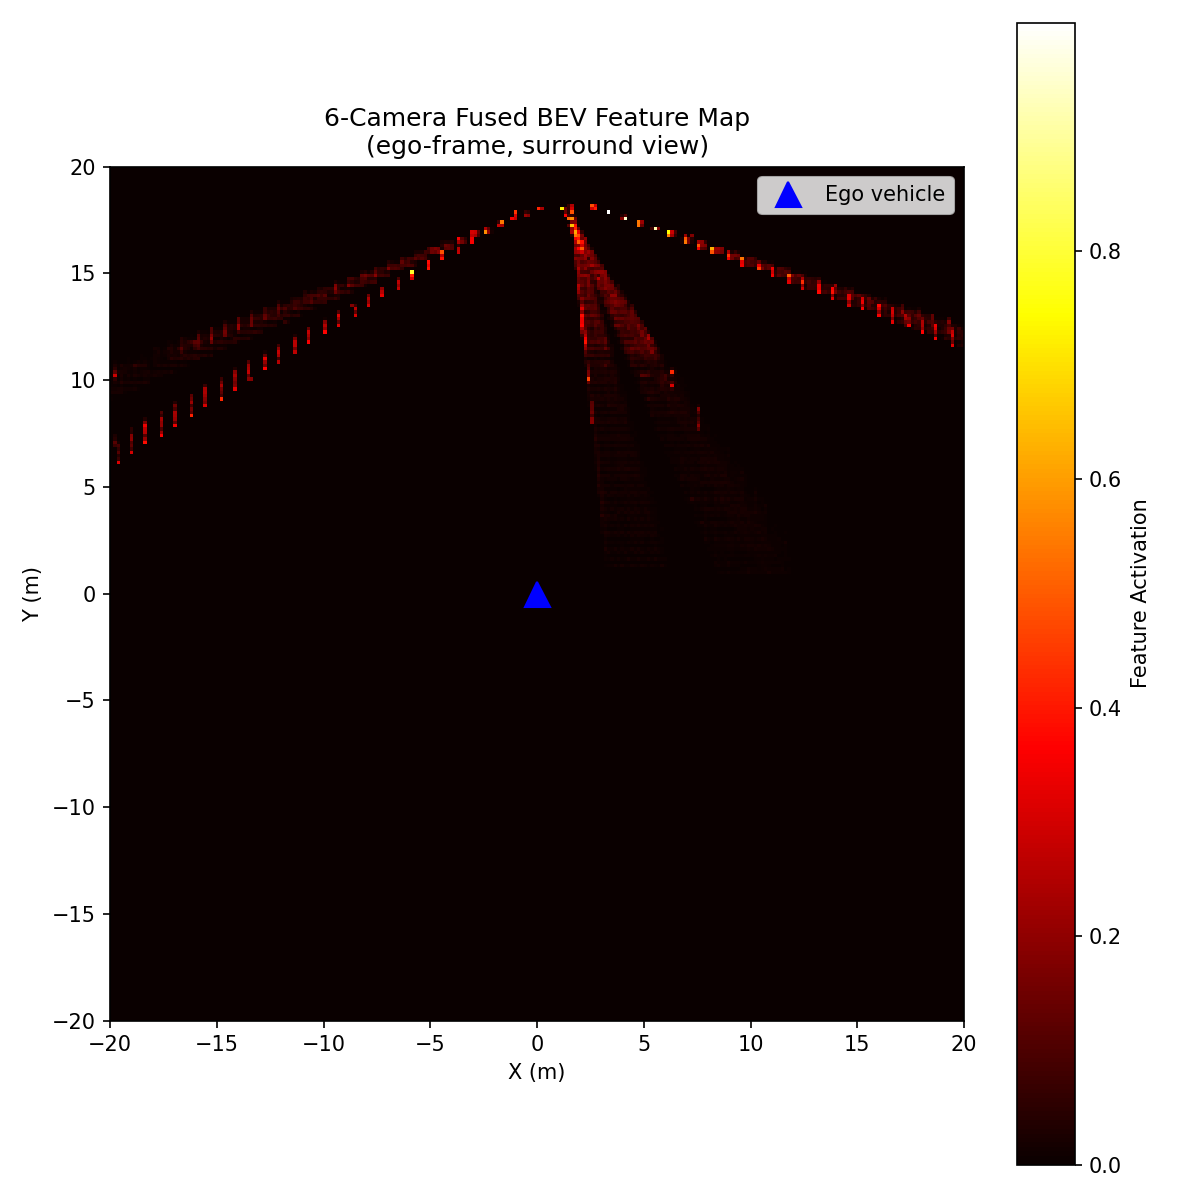
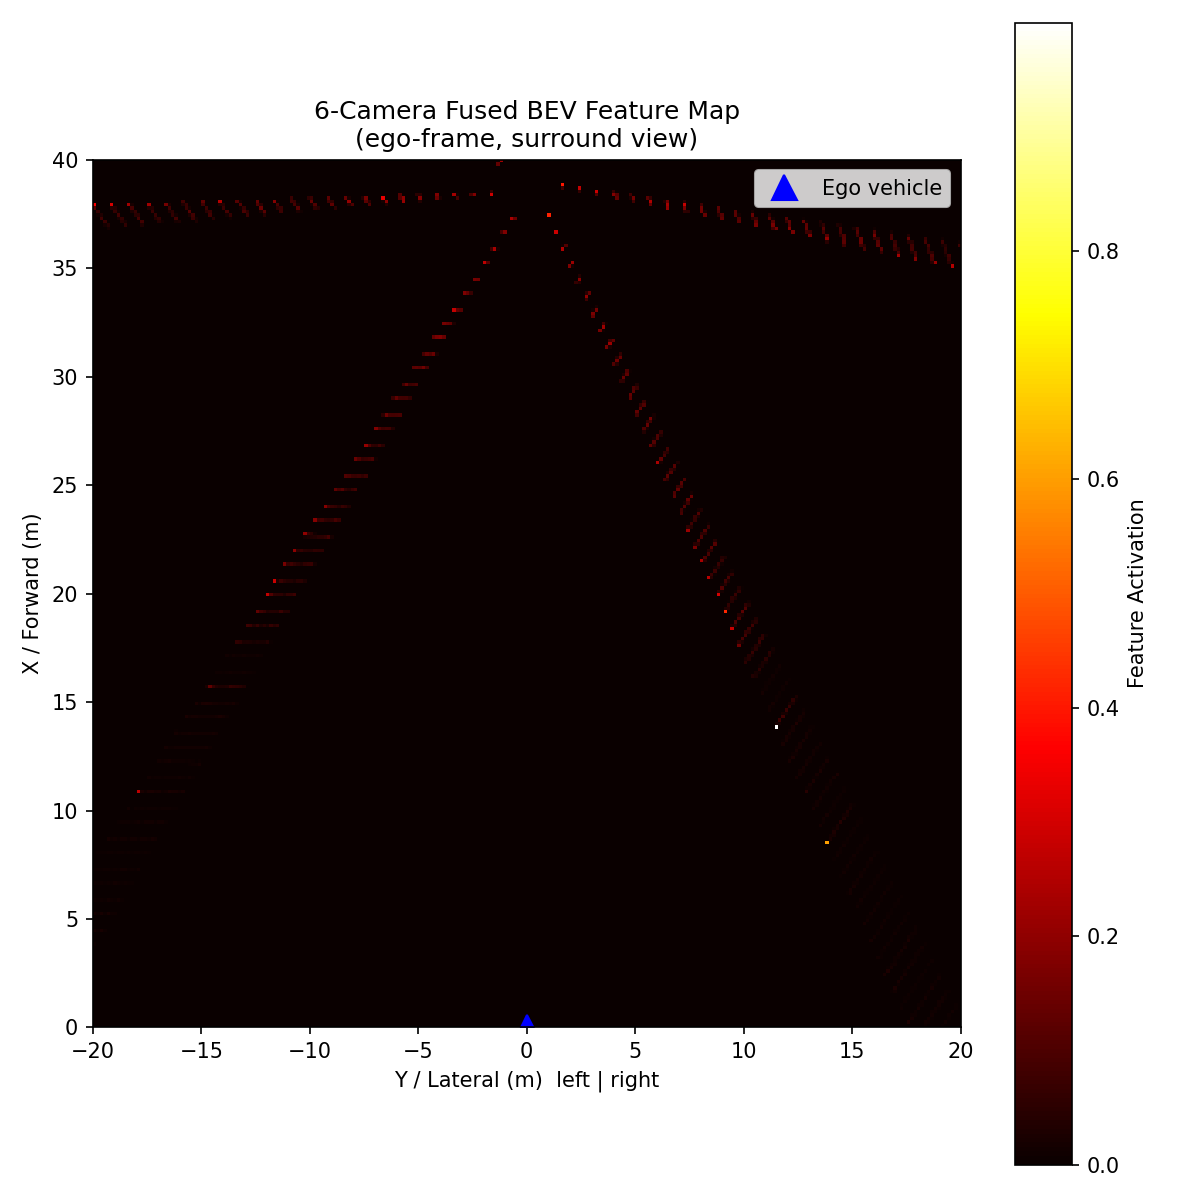
Retrain LSS with extrinsics and sparse depth supervision; fix project structure in README

diff --git a/utils/visualize_depth.py b/utils/visualize_depth.py
@@ -145,15 +145,19 @@ if __name__ == '__main__':
 
     os.makedirs(OUTPUT_DIR, exist_ok=True)
 
-    # 单相机详细可视化
-    for i, sample in enumerate(nusc.sample[:3]):
+    # 从不同 scene 各取第一个 sample
+    selected_samples = []
+    for scene in nusc.scene[:3]:
+        first_sample_token = scene['first_sample_token']
+        selected_samples.append(nusc.get('sample', first_sample_token))
+
+    for i, sample in enumerate(selected_samples):
         visualize_sparse_depth(
             nusc, sample['token'],
             save_path=f'{OUTPUT_DIR}/sparse_depth_{i}.png')
 
-    # 6路相机可视化
     visualize_multicam_depth(
-        nusc, nusc.sample[0]['token'],
+        nusc, selected_samples[0]['token'],
         save_path=f'{OUTPUT_DIR}/sparse_depth_6cam.png')
 
     print("Sparse depth 可视化完成！")

diff --git a/bev/multicam_fusion.py b/bev/multicam_fusion.py
@@ -221,9 +221,10 @@ if __name__ == '__main__':
         print("使用随机初始化权重（仅验证 pipeline）")
     model.eval()
 
-    # 取前3个 sample 做可视化
     os.makedirs(OUTPUT_DIR, exist_ok=True)
-    for i, sample in enumerate(nusc.sample[:3]):
+    selected_samples = [nusc.get('sample', scene['first_sample_token'])
+                        for scene in nusc.scene[:3]]
+    for i, sample in enumerate(selected_samples):
         visualize_multicam_fusion(
             nusc, sample['token'], model, device,
             save_path=f'{OUTPUT_DIR}/multicam_fusion_{i}.png'

diff --git a/occupancy/visualize_occ.py b/occupancy/visualize_occ.py
@@ -160,7 +160,9 @@ def visualize_3d_voxel(nusc, sample_token, save_path=None, max_points=20000):
 def run_occupancy_visualization(nusc, num_samples=3):
     os.makedirs(OUTPUT_DIR, exist_ok=True)
 
-    for i, sample in enumerate(nusc.sample[:num_samples]):
+    selected_samples = [nusc.get('sample', scene['first_sample_token'])
+                        for scene in nusc.scene[:num_samples]]
+    for i, sample in enumerate(selected_samples):
         token = sample['token']
         print(f"\nSample {i+1}/{num_samples}: {token[:8]}...")
 

diff --git a/README.md b/README.md
@@ -17,32 +17,36 @@
 ### SegFormer 2D Semantic Segmentation
 ![seg](assets/inference_results.png)
 
-### Per-Class IoU
+### Per-Class IoU & Confusion Matrix
 ![iou](assets/per_class_iou.png)
-
-### Confusion Matrix
 ![cm](assets/confusion_matrix.png)
 
-### IPM BEV Projection
+### IPM BEV Projection (Baseline)
 ![ipm](assets/ipm_baseline.png)
 
-### 6-Camera BEV Fusion (ego-frame, surround view)
+### 6-Camera Fused BEV Feature Map (ego-frame, surround view)
 ![fusion](assets/multicam_fusion_0.png)
 
 ### Per-Camera BEV Feature Maps
 ![percam](assets/multicam_fusion_0_percam_bev.png)
 
-### 3D Semantic Occupancy Grid (5-frame aggregation + ego-motion compensation)
+### LiDAR Sparse Depth Supervision
+![depth](assets/sparse_depth_0.png)
+
+### 3D Semantic Occupancy Target Generation (5-frame aggregation)
 ![occ](assets/semantic_occ_3d_0.png)
 
-### Inference Benchmark (T4 GPU)
+### LiDAR Point Cloud BEV
+![lidar](assets/lidar_bev_0.png)
+
+### ONNX Runtime Parity Benchmark (T4 GPU)
 ![bench](assets/benchmark_results.png)
 
 ---
 
 ## Pipeline Overview
 
-**nuScenes Mini** → **2D Semantic Segmentation** (SegFormer-B2, mIoU: 0.5694) → **BEV Transformation** (IPM baseline + LSS Lift-Splat-Shoot) → **3D Occupancy Grid** (LiDAR voxelization + 5-frame aggregation) → **ONNX Deployment** (~106MB, verified numerical parity, ~49ms on T4 GPU)
+**nuScenes Mini** → **2D Semantic Segmentation** (SegFormer-B2, mIoU: 0.5694) → **BEV Transformation** (IPM baseline + LSS Lift-Splat-Shoot) → **3D Occupancy Target Generation** (LiDAR voxelization + 5-frame aggregation) → **ONNX Deployment** (~106MB, verified numerical parity, ~49ms on T4 GPU)
 
 ---
 
@@ -52,7 +56,7 @@
 |--------|--------|-------|
 | SegFormer 2D Segmentation | Val mIoU (scene-level split) | 0.5694 |
 | SegFormer per-class IoU | background / vehicle / pedestrian | 0.879 / 0.631 / 0.767 |
-| SegFormer per-class IoU | cyclist / obstacle | 0.000 / N/A (not in val scenes) |
+| SegFormer per-class IoU | cyclist / obstacle | ~0.000 (segmentation failed, class imbalance) / N/A (absent in val scenes) |
 | ONNX Export Accuracy | Max error vs PyTorch | < 1e-5 |
 | GPU Inference Speed | FPS (T4) | 20.3 |
 | ONNX Model Size | Total file size | ~106 MB |
@@ -62,23 +66,43 @@
 
 ## Project Structure
 
-- `config.py` — Global config: paths, hyperparameters, classes
-- `setup_colab.py` — One-click Colab environment initialization
-- `train_seg.py` — SegFormer training with checkpoint resume
-- `infer_seg.py` — Inference and visualization
-- `evaluate.py` — Per-class IoU and confusion matrix evaluation
-- `train_bev.py` — LSS BEV training
-- `visualize_bev.py` — IPM vs LSS comparison visualization
-- `datasets/nuscenes_seg.py` — Dataset class with scene-level split
-- `models/segformer.py` — Model definition and weight loading
-- `utils/visualize.py` — Visualization utilities
-- `utils/mask_generator.py` — 3D box to 2D pseudo label projection
-- `bev/ipm.py` — Inverse Perspective Mapping
-- `bev/lss.py` — Lift-Splat-Shoot full implementation
-- `occupancy/voxel.py` — Voxel grid + multi-frame aggregation
-- `occupancy/visualize_occ.py` — LiDAR BEV / semantic BEV / 3D scatter
-- `deploy/export_onnx.py` — ONNX export and verification
-- `deploy/benchmark.py` — Inference latency benchmark
+```
+adas_occ_project/
+│
+├── config.py                        # Global config: paths, hyperparameters, classes
+├── setup_colab.py                   # One-click Colab environment initialization
+├── evaluate.py                      # Per-class IoU and confusion matrix evaluation
+│
+├── datasets/
+│   └── nuscenes_seg.py              # Dataset class with scene-level split
+│
+├── models/
+│   └── segformer.py                 # SegFormer model definition and weight loading
+│
+├── utils/
+│   ├── visualize.py                 # Segmentation visualization utilities
+│   ├── mask_generator.py            # 3D box → 2D pseudo label projection
+│   ├── depth_utils.py               # LiDAR sparse depth projection and bin labels
+│   └── visualize_depth.py           # Sparse depth supervision visualization
+│
+├── bev/
+│   ├── ipm.py                       # Inverse Perspective Mapping (baseline)
+│   ├── lss.py                       # Lift-Splat-Shoot full implementation
+│   └── multicam_fusion.py           # 6-camera surround BEV feature fusion demo
+│
+├── occupancy/
+│   ├── voxel.py                     # Voxel grid + 5-frame ego-motion aggregation
+│   └── visualize_occ.py             # LiDAR BEV / semantic BEV / 3D scatter viz
+│
+├── deploy/
+│   ├── export_onnx.py               # ONNX export and numerical parity verification
+│   └── benchmark.py                 # Inference latency benchmark
+│
+├── train_seg.py                     # SegFormer training with checkpoint resume
+├── infer_seg.py                     # Inference and visualization
+├── train_bev.py                     # LSS BEV training with scene-level split
+└── visualize_bev.py                 # IPM vs LSS BEV comparison visualization
+```
 
 ---
 
@@ -110,7 +134,9 @@
 - LiDAR sparse depth supervision: LiDAR points projected onto image plane as sparse depth labels to supervise DepthNet training, replacing blind depth estimation
 - Limited by mini dataset size; full nuScenes + pretrained backbone required for convergence
 
-### Stage 3: 3D Semantic Occupancy
+### Stage 3: 3D Semantic Occupancy Target Generation & Visualization
+
+- **Note**: This module generates and visualizes occupancy targets from LiDAR point clouds and 3D box annotations. It is not a camera-to-occupancy prediction network; the occupancy labels serve as ground truth for future model training.
 
 - **Voxel grid**: ±25m × ±25m × [-2m, 4m], resolution 0.5m → (100, 100, 12) grid
 - **Multi-frame aggregation**: 5 LiDAR sweeps with ego-motion compensation